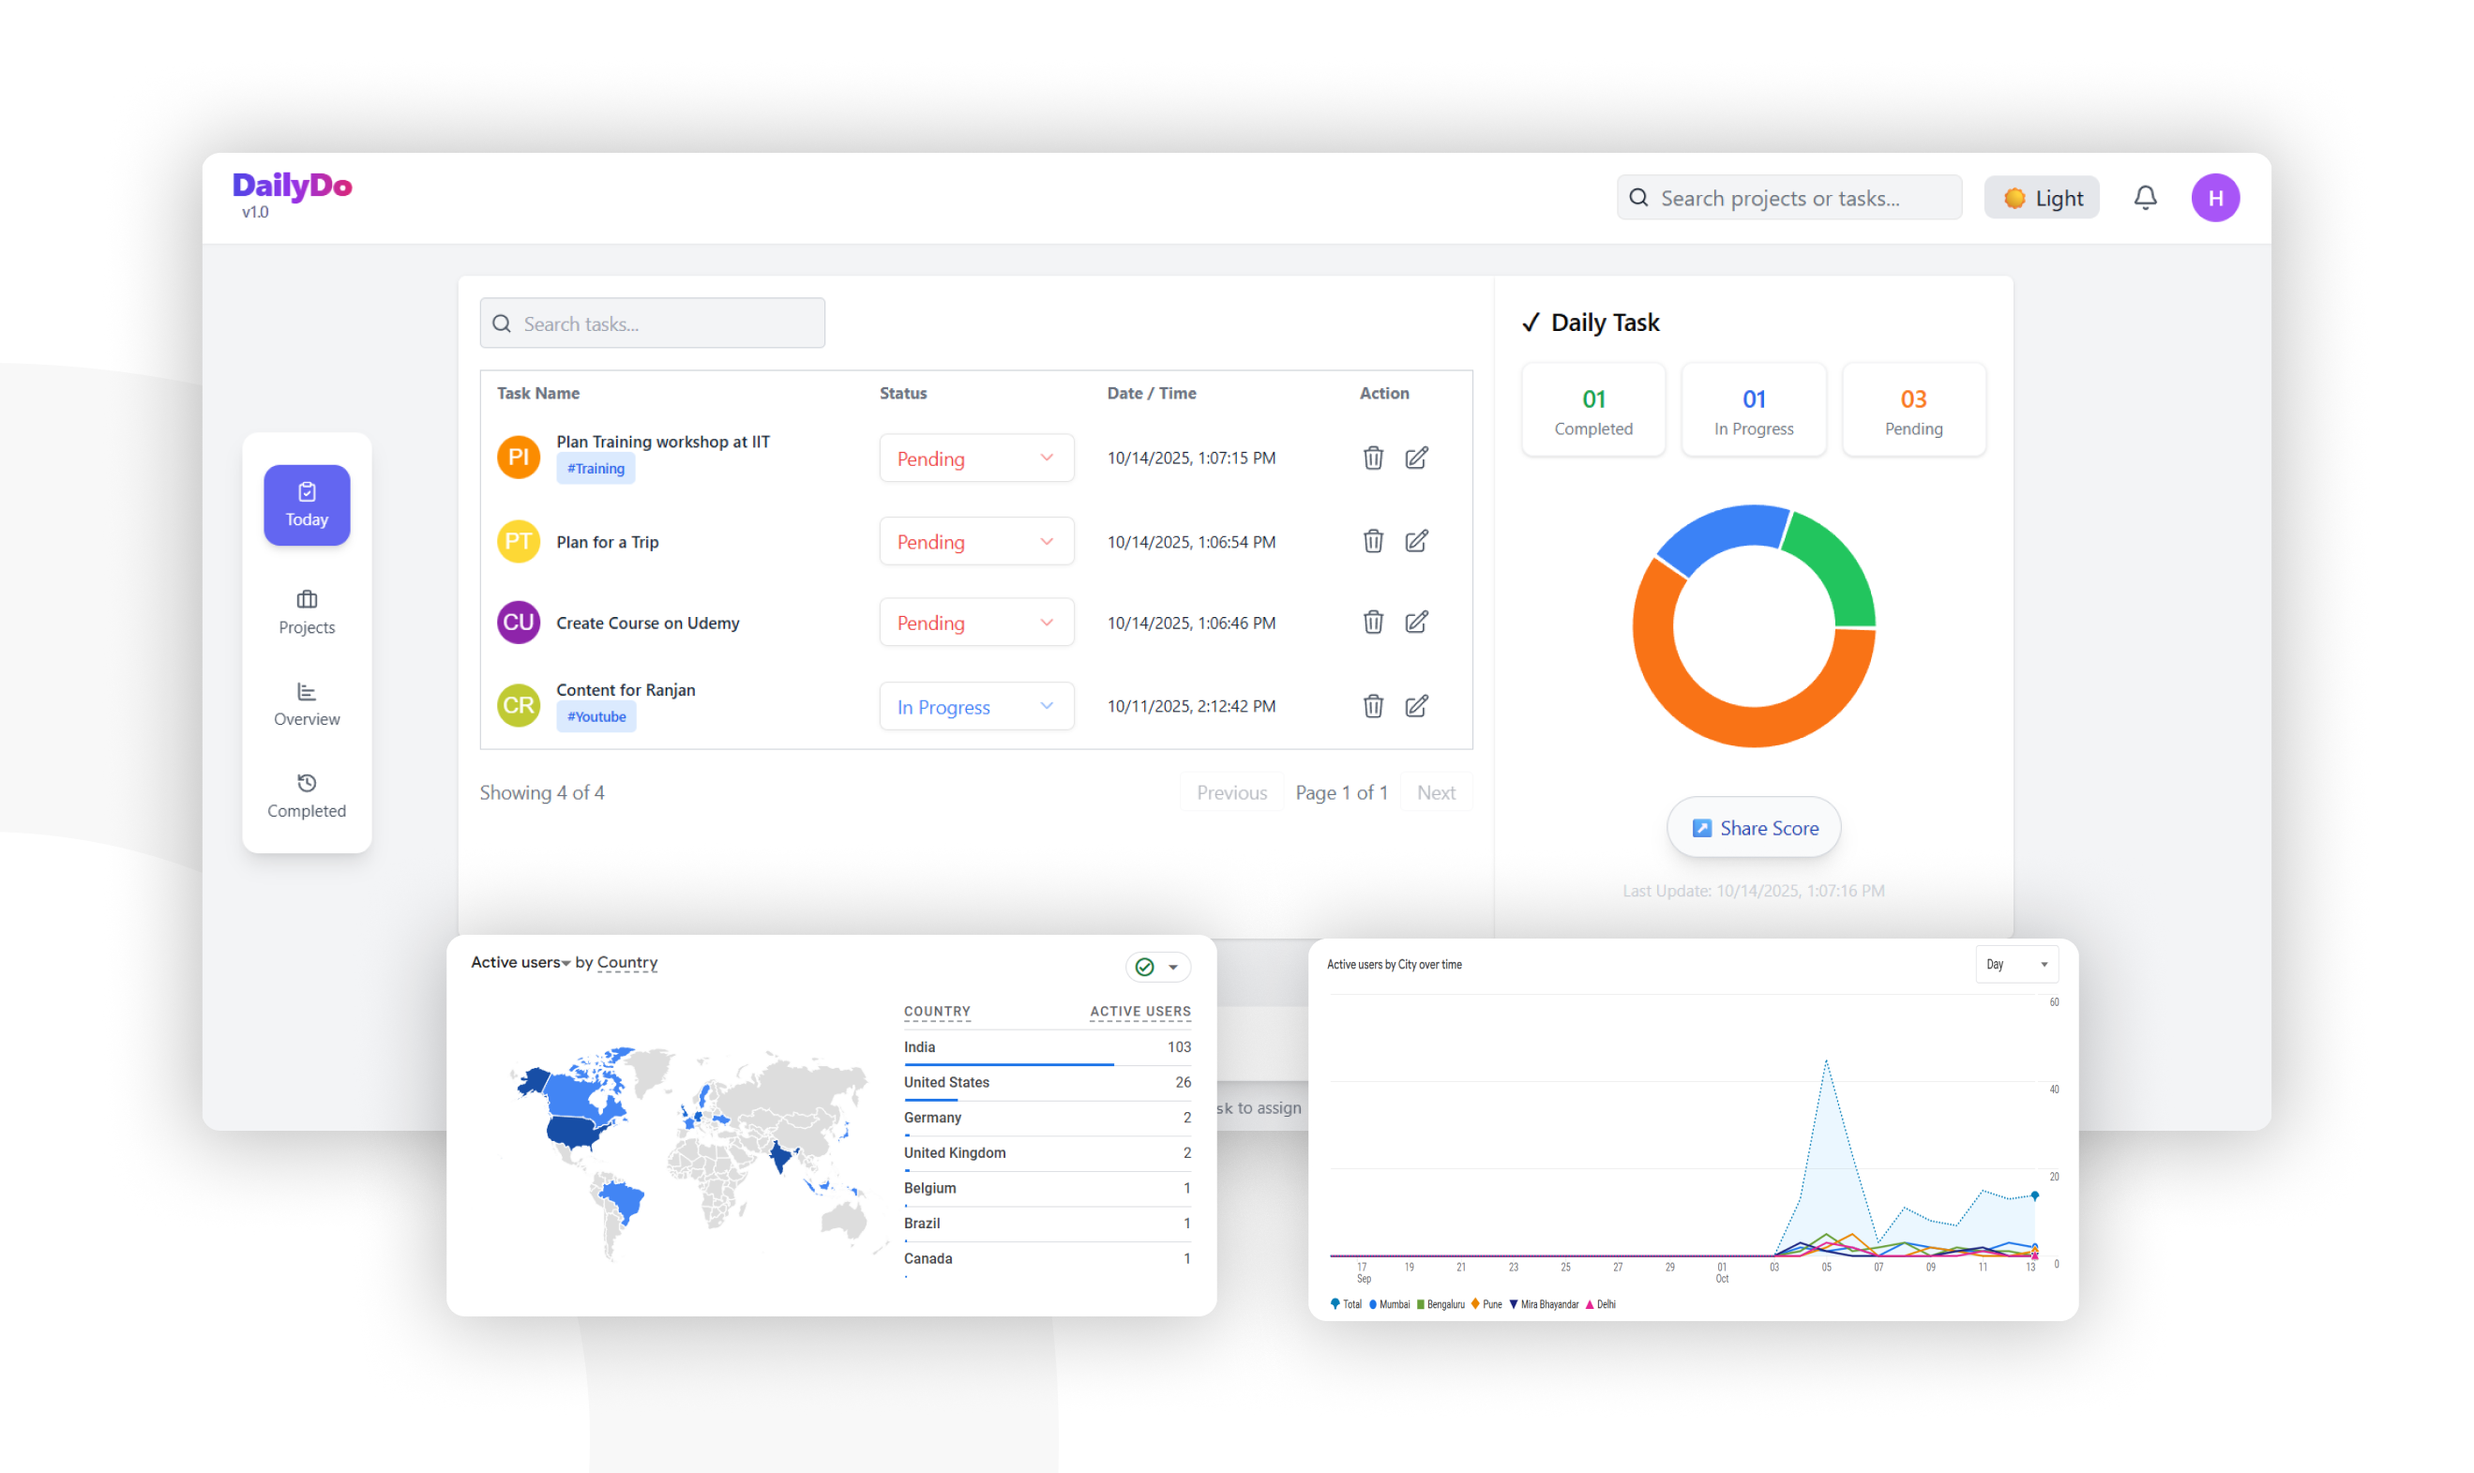
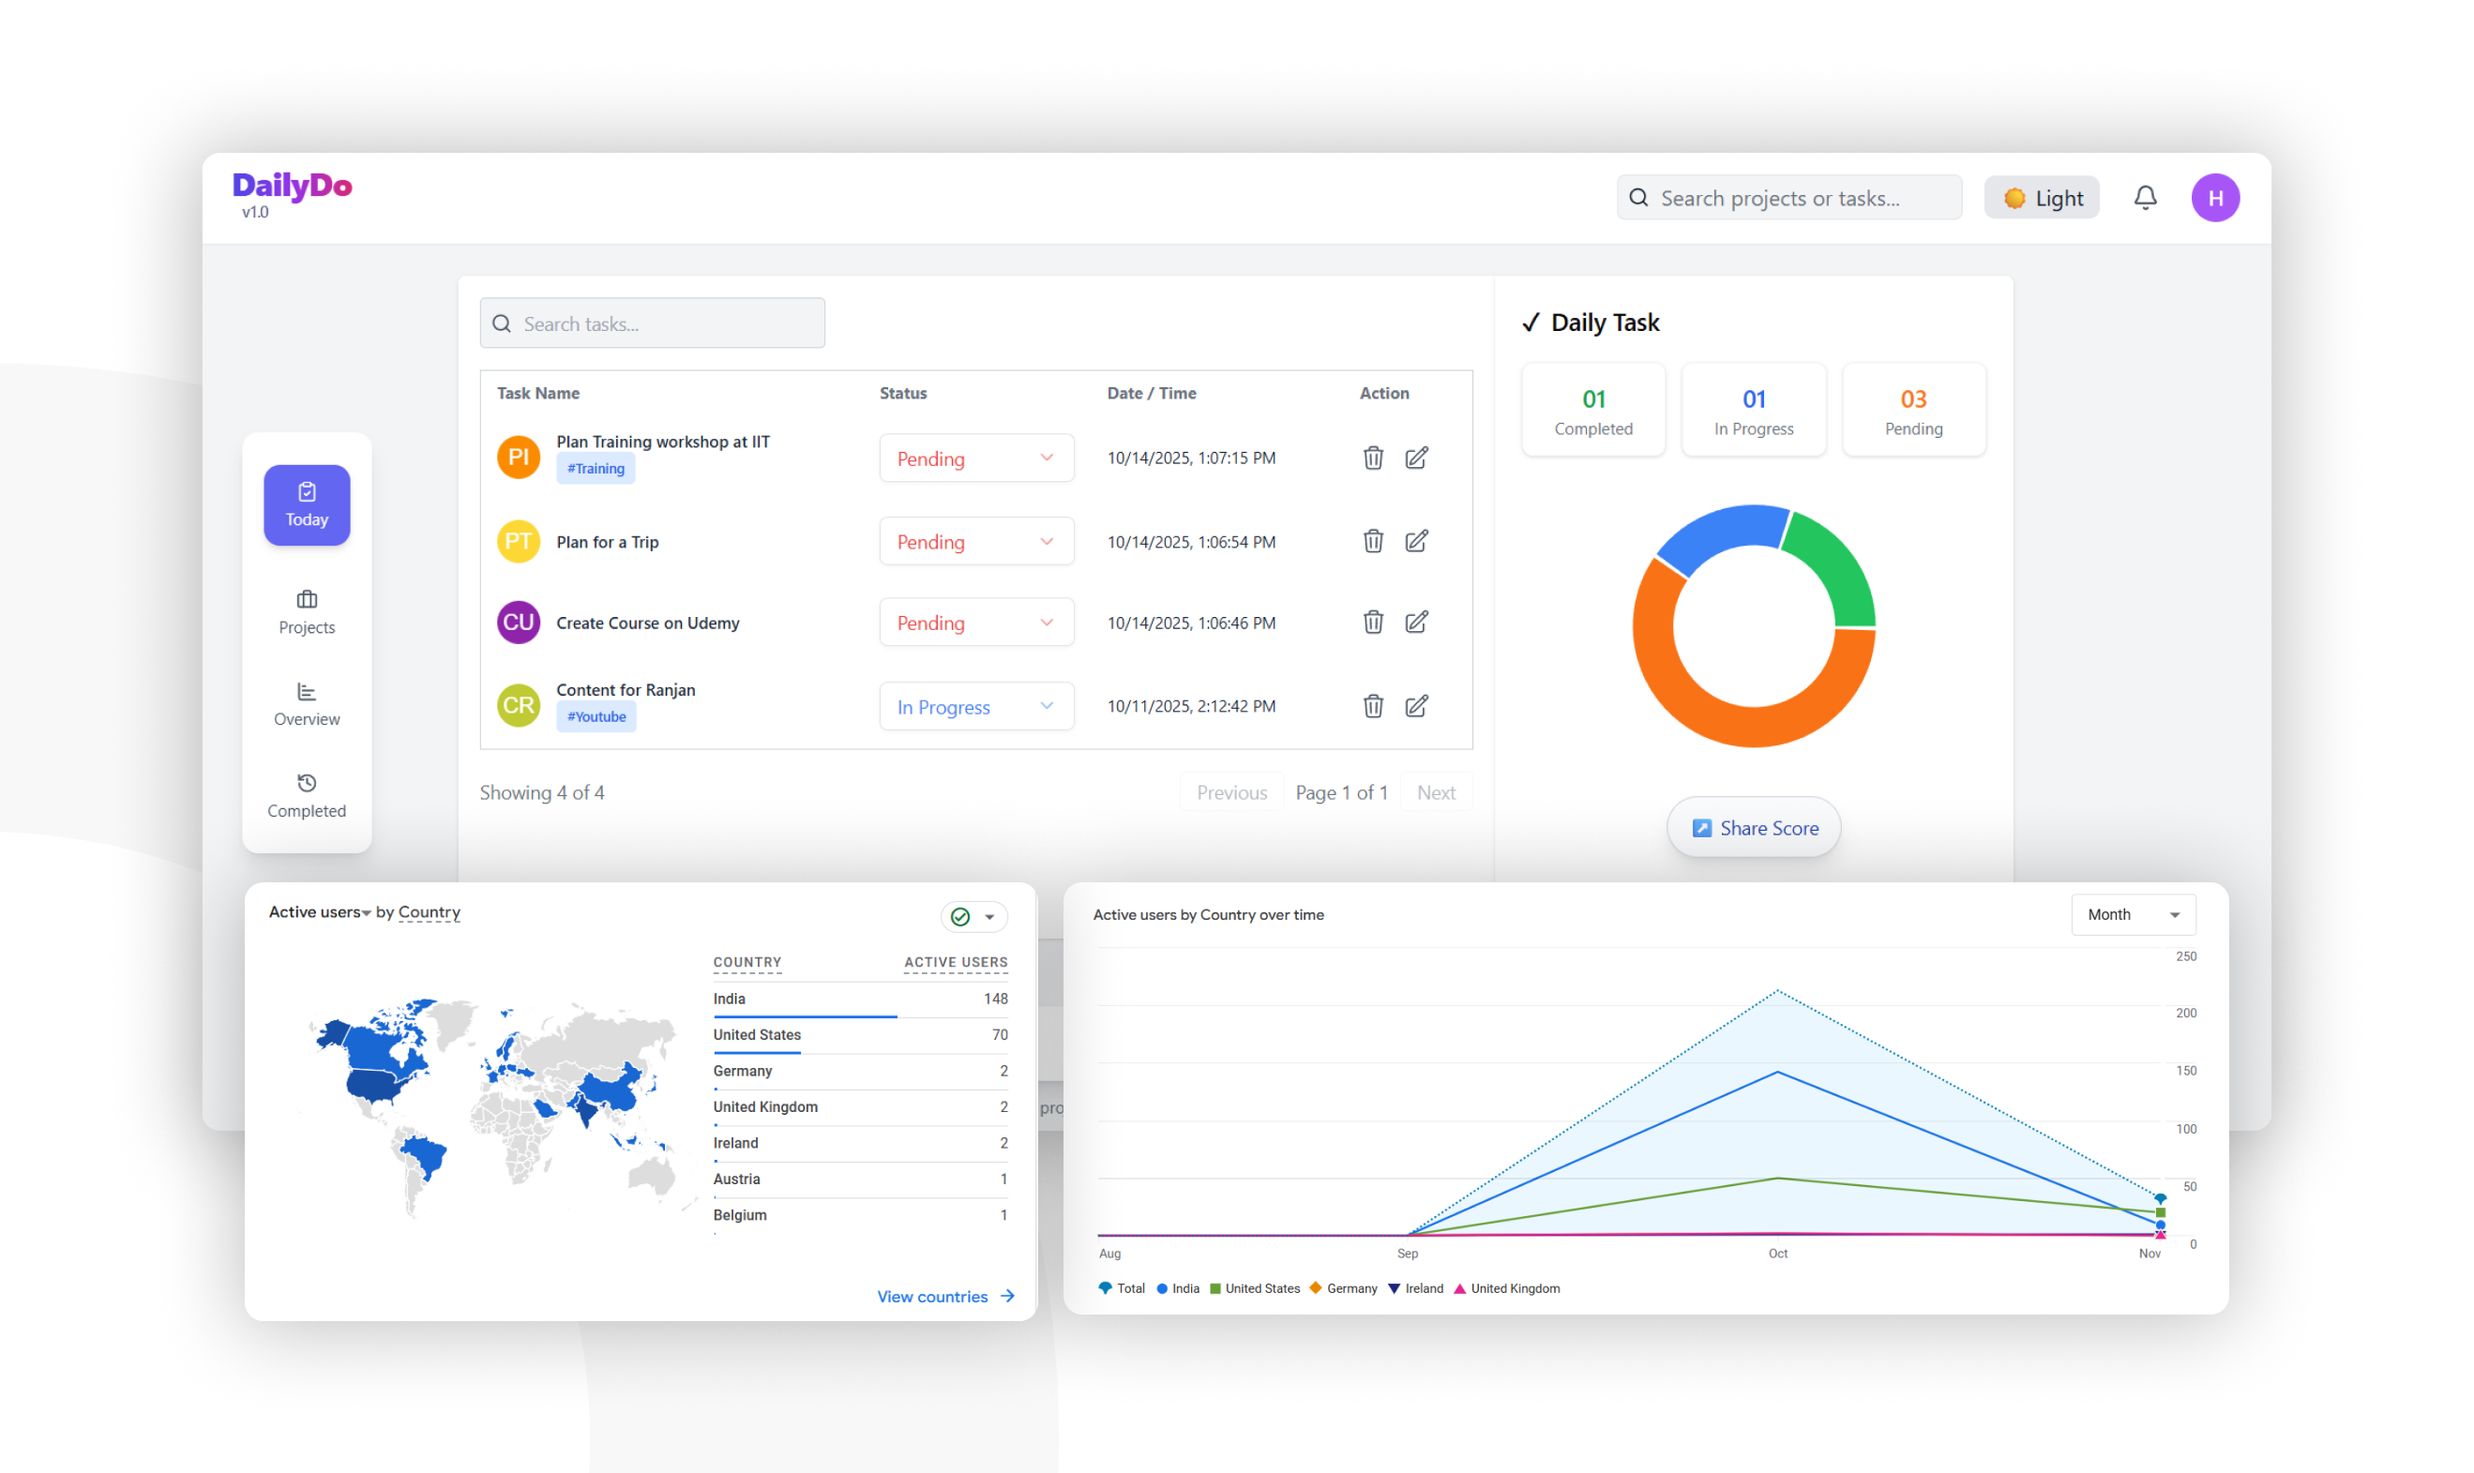
sales pitch page

Changed region(s): [[0.0933, 0.5926, 0.9325, 0.9357], [0.7149, 0.7174, 0.746, 0.7486], [0.6528, 0.7486, 0.6839, 0.7798]]

diff --git a/pages/sale/page.jsx b/pages/sale/page.jsx
@@ -1,33 +1,68 @@
 'use client';
-
 import Image from 'next/image';
 import { motion } from 'framer-motion';
+import { Download, Printer, CheckCircle, XCircle } from 'lucide-react';
+import { useRef } from 'react';
 
 export default function SalePage() {
-  return (
-    <div className="min-h-screen bg-gradient-to-b from-white to-gray-50 dark:from-gray-900 dark:to-black text-gray-800 dark:text-gray-100">
-      {/* HERO SECTION */}
+  const pageRef = useRef();
 
+  const handlePrint = () => {
+    window.print();
+  };
+
+  const handleDownload = () => {
+    import('html2pdf.js').then((html2pdf) => {
+      const element = pageRef.current;
+      html2pdf.default().from(element).save('DailyDo_Investor_Pitch.pdf');
+    });
+  };
+
+  return (
+    <div
+      ref={pageRef}
+      className="min-h-screen bg-gradient-to-b from-white to-gray-50 dark:from-gray-900 dark:to-black text-gray-800 dark:text-gray-100"
+    >
+      {/* HERO SECTION */}
       <section className="text-center py-20 px-4">
         <motion.h1
           initial={{ opacity: 0, y: 10 }}
           animate={{ opacity: 1, y: 0 }}
           className="text-4xl md:text-5xl font-bold mb-4"
         >
-          DailyDo — Fully Functional Productivity App for Sale
+          DailyDo — Smart Productivity & Performance Platform
         </motion.h1>
         <p className="text-lg text-gray-600 dark:text-gray-300 mb-6">
-          A complete task & performance management app with <strong>140 active global users</strong>. Includes full
-          codebase, domain, and concept.
+          A complete task, trading & performance management app with{' '}
+          <strong>221 users</strong> and <strong>50 active weekly users</strong>. Now open for{' '}
+          <strong>investment and scaling</strong>.
         </p>
-        <motion.a
-          href="#contact"
-          whileHover={{ scale: 1.05 }}
-          className="inline-block bg-blue-600 text-white px-6 py-3 rounded-full font-medium hover:bg-blue-700 transition"
-        >
-          Contact to investment – Offer
-        </motion.a>
+
+        <div className="flex justify-center gap-4 flex-wrap">
+          <motion.a
+            href="#contact"
+            whileHover={{ scale: 1.05 }}
+            className="inline-block bg-blue-600 text-white px-6 py-3 rounded-full font-medium hover:bg-blue-700 transition"
+          >
+            Contact to Invest
+          </motion.a>
+
+          <button
+            onClick={handleDownload}
+            className="bg-white text-gray-800 px-6 py-3 rounded-full font-medium shadow flex items-center gap-2 hover:bg-gray-100 transition"
+          >
+            <Download size={18} /> Download PDF
+          </button>
+
+          <button
+            onClick={handlePrint}
+            className="bg-gray-200 dark:bg-gray-700 px-6 py-3 rounded-full font-medium shadow flex items-center gap-2 hover:bg-gray-300 dark:hover:bg-gray-600 transition"
+          >
+            <Printer size={18} /> Print
+          </button>
+        </div>
       </section>
+
       <section>
         <Image
           src="/screens/cover.png"
@@ -42,8 +77,9 @@ export default function SalePage() {
       <section className="max-w-5xl mx-auto py-12 px-6 text-center">
         <h2 className="text-2xl font-semibold mb-4">About DailyDo</h2>
         <p className="text-gray-600 dark:text-gray-400 mb-6">
-          DailyDo is an independent productivity platform for managing tasks, tracking performance, and boosting
-          personal or team efficiency. Built with modern technologies and ready for immediate deployment.
+          DailyDo is a fast, easy productivity platform that helps freelancers, teams, and traders
+          manage their tasks, track performance, and stay consistent. Version 1 is live and fully
+          functional with AI integration and trading task templates in development.
         </p>
 
         <div className="grid md:grid-cols-3 gap-6">
@@ -73,74 +109,103 @@ export default function SalePage() {
 
       {/* FEATURES */}
       <section className="max-w-4xl mx-auto py-12 px-6">
-        <h2 className="text-2xl font-semibold mb-4 text-center">Key Features</h2>
+        <h2 className="text-2xl font-semibold mb-4 text-center">Key Highlights</h2>
         <ul className="grid md:grid-cols-2 gap-4 text-gray-700 dark:text-gray-300">
           <li>✅ Task creation, management & completion tracking</li>
-          <li>📅 Daily and weekly productivity overview</li>
-          <li>📈 Performance analytics dashboard</li>
-          <li>🧩 Fully independent module (plug & play)</li>
-          <li>🌍 140 active global users</li>
-          <li>💻 Built with Next.js, React, Tailwind, Firebase</li>
+          <li>📊 Performance analytics dashboard</li>
+          <li>💹 Trading Analysis & Tracking (upcoming paid feature)</li>
+          <li>🤖 AI-powered insights (in progress)</li>
+          <li>🌍 221 total users | 50 active weekly users</li>
+          <li>⚡ Fast, modern & intuitive (Next.js + Firebase)</li>
         </ul>
       </section>
 
-      {/* TRACTION */}
-      <section className="bg-gray-100 dark:bg-gray-800 py-12 text-center">
-        <h2 className="text-2xl font-semibold mb-4">User Traction</h2>
-        <p className="text-gray-600 dark:text-gray-300 mb-4">
-          DailyDo currently serves <strong>140 users across 20+ countries</strong>, proving global appeal and consistent
-          engagement.
+      {/* COMPETITION SECTION */}
+      <section className="max-w-6xl mx-auto py-16 px-6">
+        <h2 className="text-2xl font-semibold mb-8 text-center">Competitive Landscape</h2>
+        <p className="text-center text-gray-600 dark:text-gray-300 mb-8">
+          DailyDo stands out from complex tools like Odoo and Asana by focusing on simplicity,
+          speed, and purpose-built design for freelancers and small teams.
         </p>
-        <div className="flex justify-center items-center gap-2 flex-wrap">
-          <Image
-            src="/screens/analytics.png"
-            alt="User Analytics"
-            width={500}
-            height={280}
-            className="rounded-xl border border-gray-300 dark:border-gray-700"
-          />
-          <Image
-            src="/screens/map.png"
-            alt="Worldside Users"
-            width={500}
-            height={280}
-            className="rounded-xl border border-gray-300 dark:border-gray-700"
-          />
+
+        <div className="overflow-x-auto">
+          <table className="min-w-full border-collapse border border-gray-300 text-center text-sm md:text-base">
+            <thead className="bg-gray-100 dark:bg-gray-800">
+              <tr>
+                <th className="border border-gray-300 p-3 text-left">Features</th>
+                <th className="border border-gray-300 p-3">Odoo</th>
+                <th className="border border-gray-300 p-3">Asana</th>
+                <th className="border border-gray-300 p-3">DailyDo</th>
+              </tr>
+            </thead>
+            <tbody>
+              {[
+                ['Simple & Fast Interface', false, true, true],
+                ['Built for Freelancers', false, true, true],
+                ['AI Insights', false, false, true],
+                ['Trading Task Templates', false, false, true],
+                ['Performance Analytics', true, true, true],
+                ['Easy Customization', false, false, true],
+                ['Lightweight & Fast', false, false, true],
+              ].map(([feature, odoo, asana, dailydo], idx) => (
+                <tr key={idx} className="odd:bg-white even:bg-gray-50 dark:odd:bg-gray-900 dark:even:bg-gray-800">
+                  <td className="border border-gray-300 p-3 text-left">{feature}</td>
+                  {[odoo, asana, dailydo].map((val, i) => (
+                    <td key={i} className="border border-gray-300 p-3">
+                      {val ? (
+                        <CheckCircle className="text-green-500 mx-auto" size={18} />
+                      ) : (
+                        <XCircle className="text-red-400 mx-auto" size={18} />
+                      )}
+                    </td>
+                  ))}
+                </tr>
+              ))}
+            </tbody>
+          </table>
         </div>
       </section>
 
-      {/* OFFER SECTION */}
-      <section className="max-w-3xl mx-auto text-center py-16 px-6">
-        <h2 className="text-3xl font-bold mb-4">Investment Opportunity</h2>
-        <motion.a
-          href="#contact"
-          whileHover={{ scale: 1.05 }}
-          className="inline-block bg-green-600 text-white px-8 py-3 rounded-full font-medium hover:bg-green-700 transition"
-        >
-          Buy DailyDo Now
-        </motion.a>
+      {/* ROADMAP SECTION */}
+      <section className="max-w-5xl mx-auto py-16 px-6 bg-gray-100 dark:bg-gray-800 rounded-2xl">
+        <h2 className="text-2xl font-semibold mb-8 text-center">Next 6 Months Roadmap</h2>
+        <div className="grid md:grid-cols-2 gap-6 text-gray-700 dark:text-gray-300 text-lg">
+          <div className="p-4 bg-white dark:bg-gray-900 rounded-xl shadow">💼 Paid Team Plan</div>
+          <div className="p-4 bg-white dark:bg-gray-900 rounded-xl shadow">
+            📊 Paid Trading Template Tasks
+          </div>
+          <div className="p-4 bg-white dark:bg-gray-900 rounded-xl shadow">📱 Mobile Application</div>
+          <div className="p-4 bg-white dark:bg-gray-900 rounded-xl shadow">🧩 Paid Project Plan</div>
+        </div>
       </section>
-      <section className="bg-gray-100  mx-auto py-12 px-6 text-center items-center flex-col">
-        <h2 className="text-2xl py-2">
-          <strong>How to Use DailyDo – </strong>The Best Productivity & Task Management App
-        </h2>
-        <p className="py-2 mb-6 w-9/12 flex items-center mx-auto">
-          DailyDo is designed to help you organize your tasks, track progress, and boost productivity—all in one clean
-          and intuitive interface. With 140 active users across the globe, it’s a proven tool for staying on top of your
-          goals.
+
+      {/* ABOUT FOUNDER */}
+      <section className="max-w-4xl mx-auto py-16 px-6 text-center">
+        <h2 className="text-2xl font-semibold mb-4">About the Founder</h2>
+        <Image
+          src="/images/founder.png"
+          alt="Founder"
+          width={160}
+          height={160}
+          className="rounded-full mx-auto mb-6 border border-gray-300 dark:border-gray-600"
+        />
+        <p className="text-gray-600 dark:text-gray-300 mb-3">
+          <strong>Ranjan Pathak</strong> — Designer, Strategist, and Founder of DailyDo.  
+          Passionate about simplifying productivity systems for professionals and freelancers
+          worldwide.
         </p>
-        <iframe
-          src="https://www.youtube.com/embed/oD71KPH2olE?si=Tjs1F1W1Xjy_Jm4j"
-          title="DailyDo Demo"
-          allowFullScreen
-          className="w-9/12 h-[480px] rounded-lg items-center mx-auto"
-        ></iframe>
+        <p className="text-gray-600 dark:text-gray-300">
+          On a mission to scale DailyDo into a global platform for performance tracking, project
+          collaboration, and AI-assisted productivity.
+        </p>
       </section>
 
       {/* CONTACT SECTION */}
       <section id="contact" className="bg-gray-900 text-white text-center py-16 px-6 rounded-t-3xl">
-        <h2 className="text-3xl font-bold mb-4">Interested in investing?</h2>
-        <p className="mb-4 text-gray-300">Contact me directly to discuss the see the live demo.</p>
+        <h2 className="text-3xl font-bold mb-4">Interested in Investing?</h2>
+        <p className="mb-4 text-gray-300">
+          Contact me directly to discuss the opportunity and view the live demo.
+        </p>
         <div className="space-y-2">
           <p>
             📧{' '}
